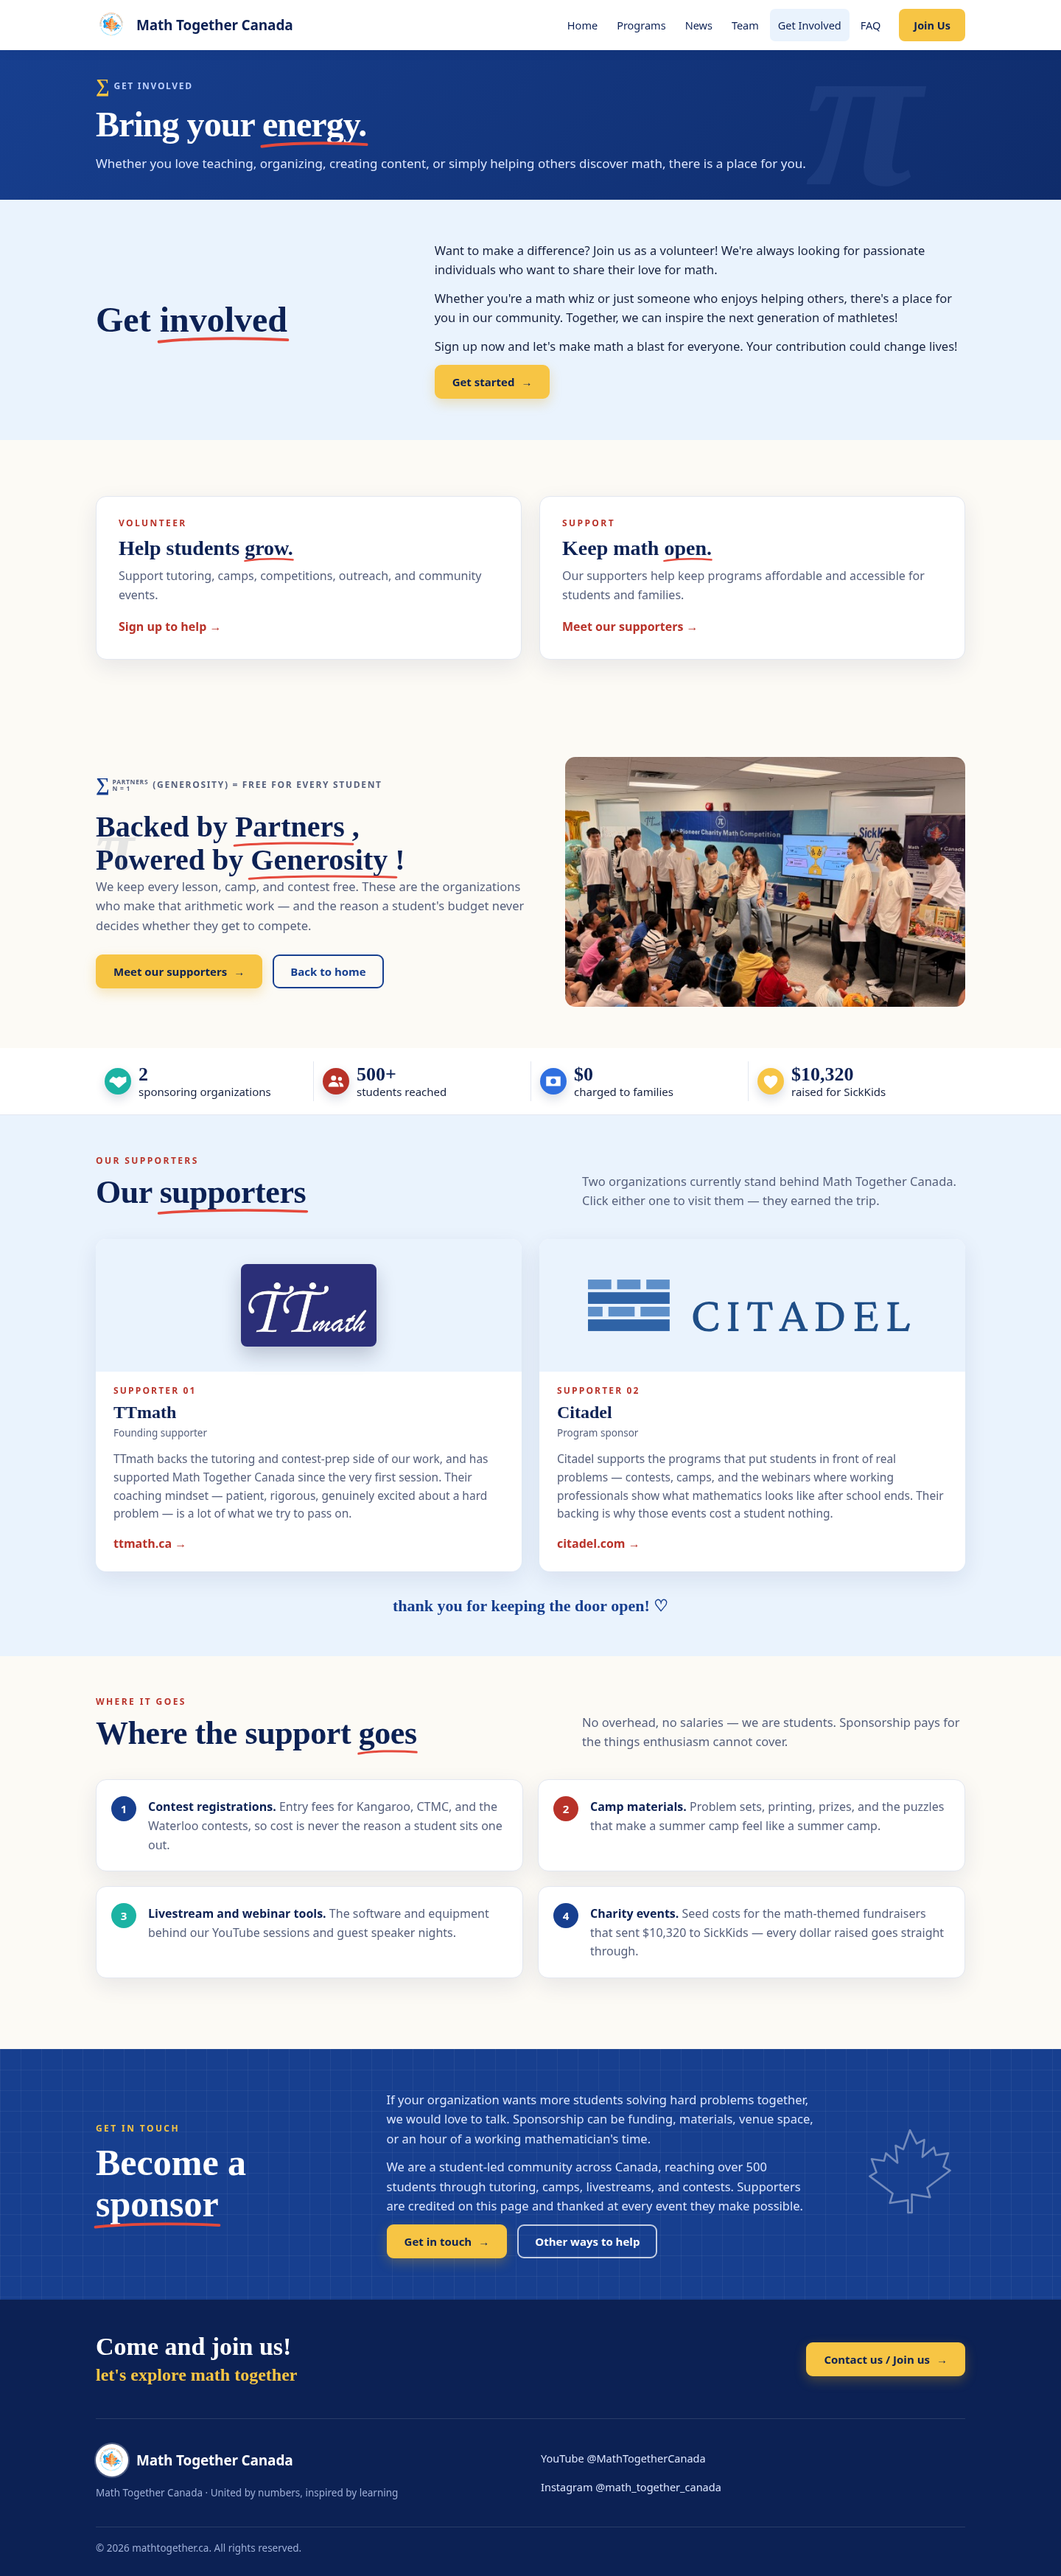
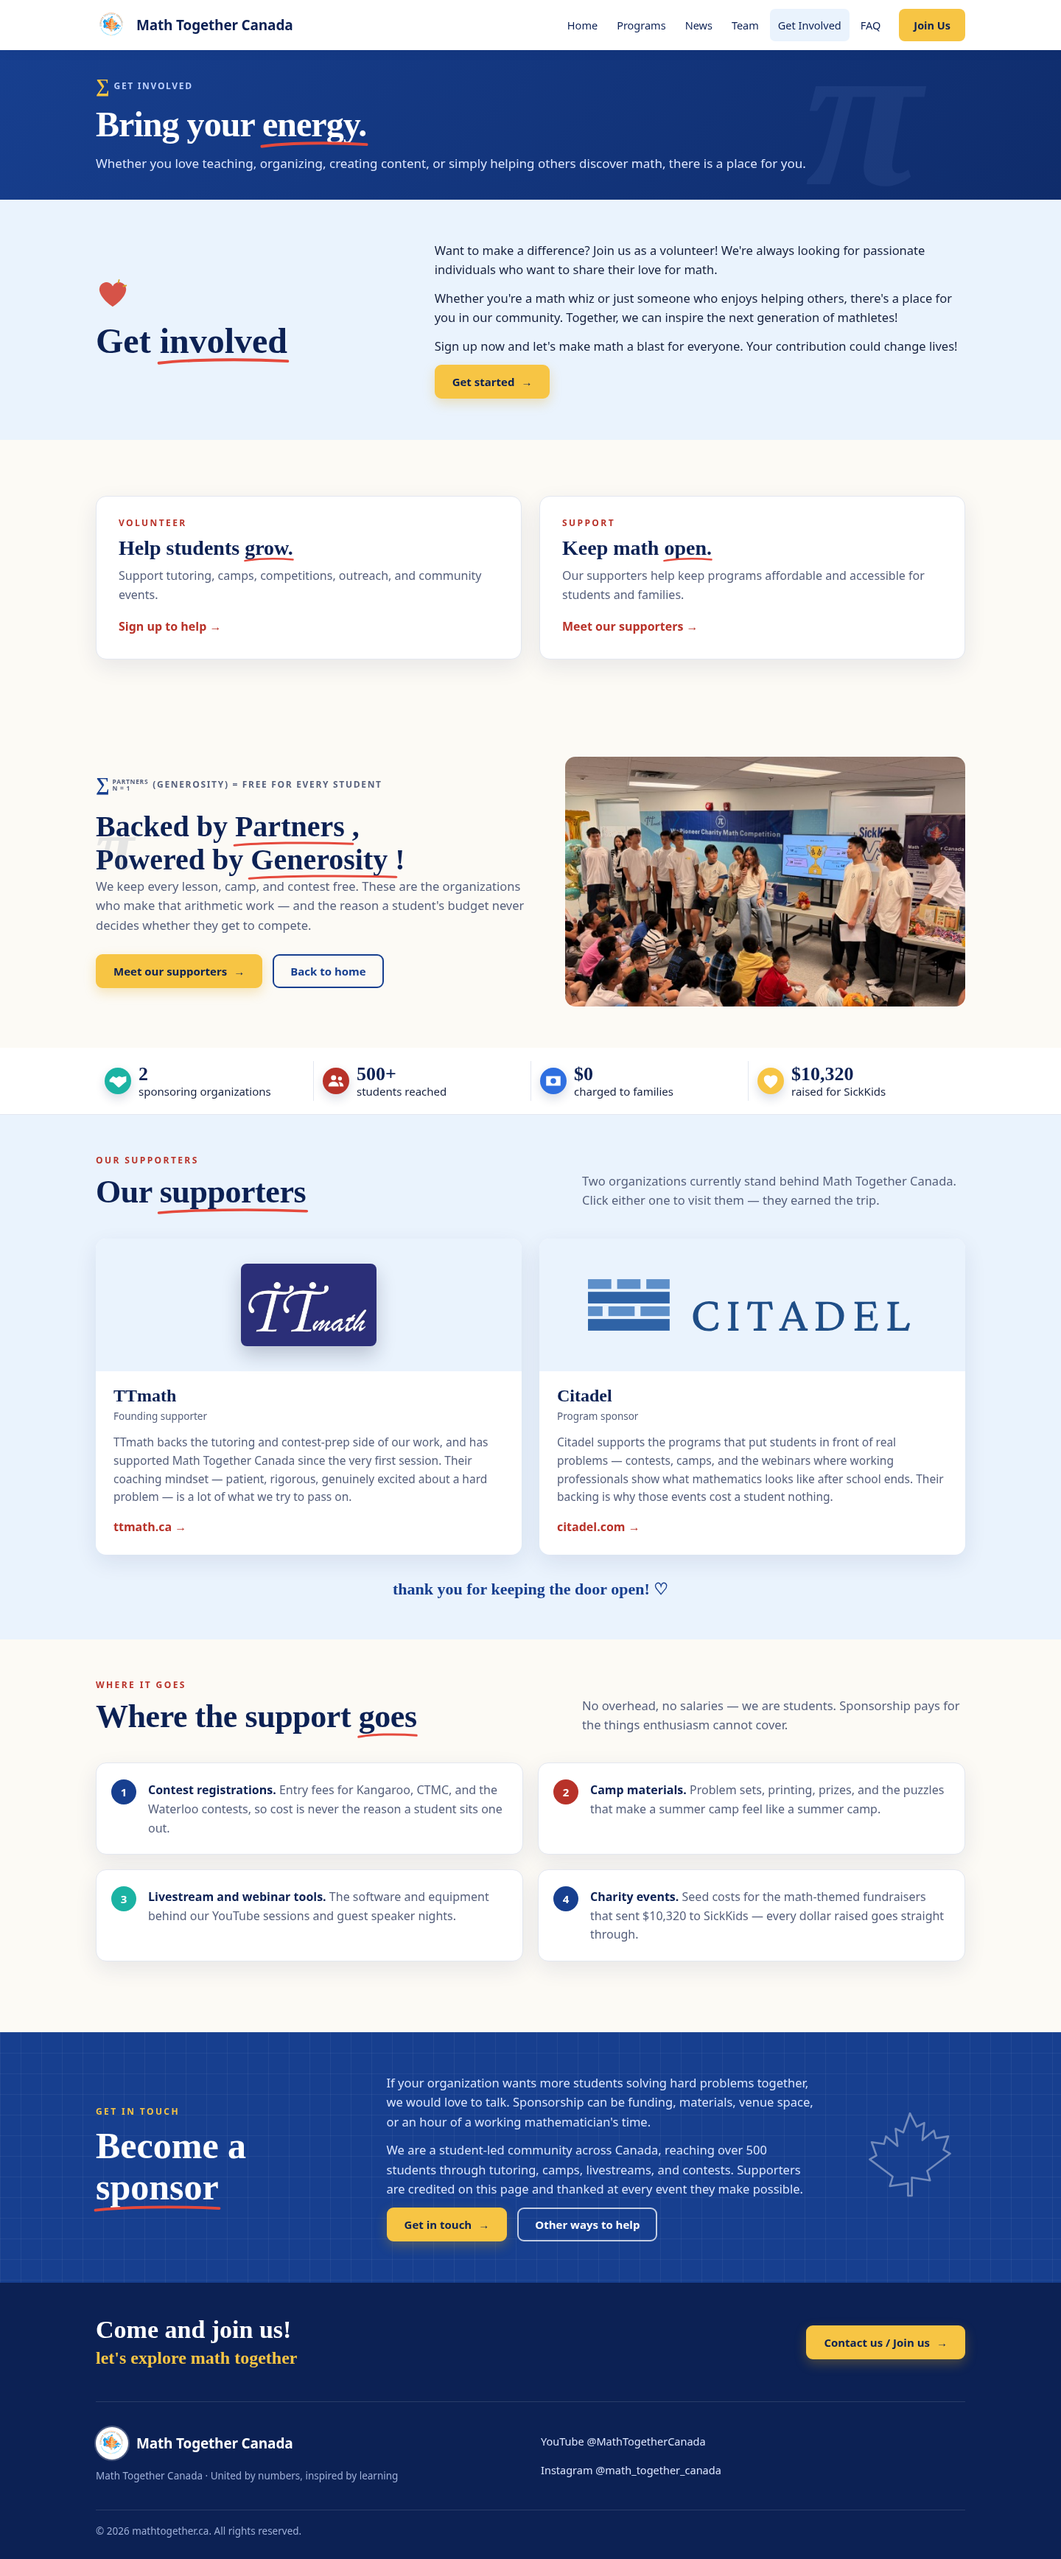
Refine responsive section order and balanced profile layouts

diff --git a/home.css b/home.css
@@ -186,3 +186,32 @@ linear-gradient(145deg,#173f8f,#0f2c6b);background-size:28px 28px;color:#fff}
 }
 
 @media (max-width: 640px) { .home-story-grid { grid-template-columns: 1fr; } }
+
+/* Align the icon with the number, keeping its label on the next line. */
+.home-proof-grid > div { align-items: flex-start; }
+.stat-icon { margin-top: 3px; }
+.home-proof-grid > div:nth-child(1) .stat-icon { color: #c4473d; }
+.home-proof-grid > div:nth-child(2) .stat-icon { color: #285aa6; }
+.home-proof-grid > div:nth-child(3) .stat-icon { color: #ad7a12; }
+.home-proof-grid > div:nth-child(4) .stat-icon { color: #c4473d; }
+@media (min-width: 961px) {
+ .stat-icon { width: 28px; height: 28px; }
+ .home-proof-grid strong { font-size: 34px; }
+ .home-proof-grid > div { padding-block: 16px; }
+}
+@media (max-width: 760px) {
+ .who-copy, .home-feature-copy { display: contents; }
+ .who-we-are .about-head { grid-row: 1; }
+ .who-we-are .who-photo { grid-row: 2; }
+ .who-we-are .about-body { grid-row: 3; }
+ .home-page main > .home-feature { gap: 16px; }
+ .home-feature .home-kicker { grid-row: 1; margin: 0; }
+ .home-feature h2 { grid-row: 2; }
+ .home-feature-media { grid-row: 3; }
+ .home-feature .event-date { grid-row: 4; margin: 0; }
+ .home-feature .home-feature-stats { grid-row: 5; margin: 0; }
+ .home-feature-copy > p:not(.home-kicker):not(.home-feature-stats):not(.event-date),
+ .home-feature-copy > .btn { margin-top: 0; }
+ .who-we-are .about-head h2 { margin-bottom: 0; }
+ .home-feature-copy > .btn { justify-self: start; }
+}

diff --git a/get-involved.html b/get-involved.html
@@ -90,6 +90,7 @@
    <section class="band-blue volunteer-section" id="involved">
     <div class="wrap cta-in">
      <div>
+      <svg aria-hidden="true" class="involved-heart" viewBox="0 0 48 48"><path d="M24 41S5 29 5 16a10 10 0 0 1 19-4 10 10 0 0 1 19 4c0 13-19 25-19 25Z" fill="currentColor"/><path d="m32 7 1-4m6 9 4-1" fill="none" stroke="#d6a325" stroke-width="2" stroke-linecap="round"/></svg>
       <h2>
        Get
        <span class="ul">
@@ -305,9 +306,6 @@
         <img alt="TTmath logo" src="assets/img/sponsors/ttmath.jpg"/>
        </span>
        <div class="body">
-        <span class="rank">
-         supporter 01
-        </span>
         <h3>
          TTmath
         </h3>
@@ -329,9 +327,6 @@
         <img alt="Citadel logo" src="assets/img/sponsors/citadel.svg"/>
        </span>
        <div class="body">
-        <span class="rank">
-         supporter 02
-        </span>
         <h3>
          Citadel
         </h3>

diff --git a/programs.html b/programs.html
@@ -101,9 +101,6 @@
         </span>
        </h2>
       </div>
-      <p class="section-lede">
-       Programs that make math meaningful, fun, and community-driven!
-      </p>
      </div>
      <div class="cards">
       <article>
@@ -273,19 +270,7 @@
        </span>
       </h2>
      </div>
-     <p class="section-lede">
-      Are you passionate about math? Want to test your problem-solving skills in
-    real-time? Math Together Canada invites you to our Math Challenge — learning problem-solving
-    strategies through interactive discussions. Big math energy on our
-      <a href="https://www.youtube.com/@MathTogetherCanada">
-       YouTube channel
-      </a>
-      !
-     </p>
     </div>
-    <p class="section-lede">
-     Watch contest walkthroughs, interactive problem-solving, and conversations with students and math experts.
-    </p>
     <ol class="live-points">
      <li>
       <b>

diff --git a/team.html b/team.html
@@ -215,7 +215,7 @@
      <h3 class="tier-label">
       Content Contributors
      </h3>
-     <div class="team-grid">
+     <div class="team-grid team-grid-five">
       <article class="member">
        <img alt="Maximilian Lin" loading="lazy" src="assets/img/team-max.jpg"/>
        <h3>
@@ -385,7 +385,7 @@
      <h3 class="tier-label">
       Board of Directors
      </h3>
-     <div class="team-grid">
+     <div class="team-grid team-grid-five">
       <article class="member">
        <img alt="James Qiu" loading="lazy" src="assets/img/team-james.jpg"/>
        <h3>

diff --git a/style.css b/style.css
@@ -519,3 +519,9 @@ a:focus-visible, button:focus-visible, summary:focus-visible { outline: 3px soli
 @media (max-width: 640px) {
  .livestream-channel { flex-direction: column; align-items: flex-start; }
 }
+
+/* Only the two five-member groups use a three-plus-two desktop arrangement. */
+@media (min-width: 961px) {
+ .team-grid-five { max-width: 854px; margin-inline: auto; }
+}
+.involved-heart { display: block; width: 46px; height: 46px; color: #d65348; margin-bottom: 12px; }

diff --git a/tests/browser_check.py b/tests/browser_check.py
@@ -35,6 +35,9 @@ with sync_playwright() as p:
     assert page.locator('.home-story-card').count()==3
     assert not page.locator('.home-join, .two-col-callout').count()
     assert page.locator('.home-proof').evaluate('(e)=>e.getBoundingClientRect().height') < (150 if width <= 960 else 100)
+    if width in [375,390]:
+     assert page.locator('#about').evaluate('''(s)=>{const r=q=>s.querySelector(q).getBoundingClientRect();return r('.about-head').bottom<=r('.who-photo').top && r('.who-photo').bottom<=r('.about-body').top;}''')
+     assert page.locator('#featured-event').evaluate('''(s)=>{const r=q=>s.querySelector(q).getBoundingClientRect();return r('.home-kicker').bottom<=r('h2').top && r('h2').bottom<=r('.home-feature-media').top && r('.home-feature-media').bottom<=r('.event-date').top;}''')
     if width == 1440:
      assert page.locator('.home-story-card').evaluate_all('(es)=>new Set(es.map(e=>Math.round(e.getBoundingClientRect().top))).size')==1
     assert page.locator('.formula-lockup').evaluate('(e)=>e.scrollWidth<=e.clientWidth'),(width,'formula clipping')
@@ -42,9 +45,12 @@ with sync_playwright() as p:
    if name in ['programs','news','team','get-involved','faq']:
     assert page.locator('.page-hero-lede').evaluate('(e)=>Math.abs(e.getBoundingClientRect().width-e.closest(".page-hero-in").getBoundingClientRect().width)<1')
    if name=='programs':
+    assert not page.locator('#programs .section-head > .section-lede, #livestream .section-lede').count()
     assert not page.locator('main > section .cta-in-simple').count()
     assert page.locator('#livestream .livestream-channel a').get_attribute('href')=='https://www.youtube.com/@MathTogetherCanada'
    if name=='get-involved':
+    assert page.locator('.involved-heart').is_visible()
+    assert not page.locator('.sponsor .rank').count()
     assert not page.locator('#involved .kicker, .hero-scribble, blockquote.pull').count()
     assert page.locator('#involved h2').evaluate('(e)=>parseFloat(getComputedStyle(e).fontSize)')>=34
    if name=='news':
@@ -56,6 +62,9 @@ with sync_playwright() as p:
     assert page.locator('.story summary').evaluate_all('(es)=>es.every(e=>parseFloat(getComputedStyle(e).marginTop)>=14)')
     page.locator('.story summary').first.click();assert page.locator('.story-dialog').is_visible();page.keyboard.press('Escape');assert not page.locator('.story-dialog').is_visible()
    if name=='team':
+    assert page.locator('.team-grid-five').count()==2
+    if width==1440:
+     assert page.locator('.team-grid-five').evaluate_all('''(gs)=>gs.every(g=>{const rs=Array.from(g.children).map(e=>e.getBoundingClientRect());return rs.length===5 && rs[0].top===rs[2].top && rs[3].top===rs[4].top && rs[3].top>rs[0].top && rs.every(r=>Math.abs(r.width-rs[0].width)<1);})''')
     assert page.locator('.team-grid').evaluate_all('(grids)=>grids.every(g=>{const cards=Array.from(g.children);const lastTop=cards[cards.length-1].getBoundingClientRect().top;const last=cards.filter(e=>Math.abs(e.getBoundingClientRect().top-lastTop)<1);const a=last[0].getBoundingClientRect(),z=last[last.length-1].getBoundingClientRect(),r=g.getBoundingClientRect();return Math.abs((a.left+z.right)/2-(r.left+r.right)/2)<2;})')
     m=page.locator('.member').first;m.focus();page.keyboard.press('Enter');assert m.get_attribute('aria-pressed')=='true';page.keyboard.press('Space');assert m.get_attribute('aria-pressed')=='false'
    if name=='faq':page.locator('.faq summary').first.click();assert page.locator('.faq').first.get_attribute('open') is not None

diff --git a/tests/content_check.py b/tests/content_check.py
@@ -51,6 +51,7 @@ for name in pages:
   assert original == retained, 'Who We Are original text changed'
  for p in old.select('main p, .hero .lede'):
   text=normalize(p.get_text(' ',strip=True))
+  if text.startswith(('Programs that make', 'Are you passionate about math?')): continue # Explicitly approved introductory copy removal
   if name != 'index.html' and text and text not in removed and text not in current:missing.append((name,text))
  for a in old.select('a[href]'):
   if urlsplit(a['href']).netloc:external.add(a['href'])

diff --git a/tests/README.md b/tests/README.md
@@ -32,3 +32,5 @@ This checks all six primary pages at 375, 390, 768 and 1440 pixels, menu actions
 During redesign, HTML was also checked with html-validate's recommended rules (format-only exceptions and inline styles allowed), CSS parsed with css-tree, and WCAG A/AA checked with axe-core on all six primary pages at 390 and 1440 pixels. These tools are optional and do not change the website's static publishing workflow. Automated accessibility checks supplement, rather than replace, human review.
 
 Latest News is generated from `news.html`; see [news maintenance and unresolved dates](../docs/news-maintenance.md). The news-specific browser check tests exact-date sorting independently of source order, year-only source-order fallback, date validation, the three-item limit, newer additions without homepage changes, deep links and fetch failure.
+
+Refinement checks also assert mobile heading → photo → text ordering, the two five-member desktop groups (3 + 2 centered, equal widths), removed program introductions and supporter labels, and the decorative heart.

diff --git a/previews/README.md b/previews/README.md
@@ -15,3 +15,5 @@ Open an image and use GitHub’s **Raw** or **Download** control to view it at f
 | Get Involved | [View 1440px screenshot](get-involved-1440.png) | [View 390px screenshot](get-involved-390.png) |
 
 Home and News screenshots include automatic Latest News: three homepage cards selected from the News source. Exact dates are sorted descending; year-only items retain their source positions within the same year. Four items have no known year and remain outside homepage selection. See [date status](../docs/news-maintenance.md).
+
+Latest refinements: colored and aligned statistics, mobile heading/photo/text order, reduced Programs introductions, three-plus-two desktop member groups, and the Get Involved heart decoration. Home, Programs, Team and Get Involved screenshots refreshed.
